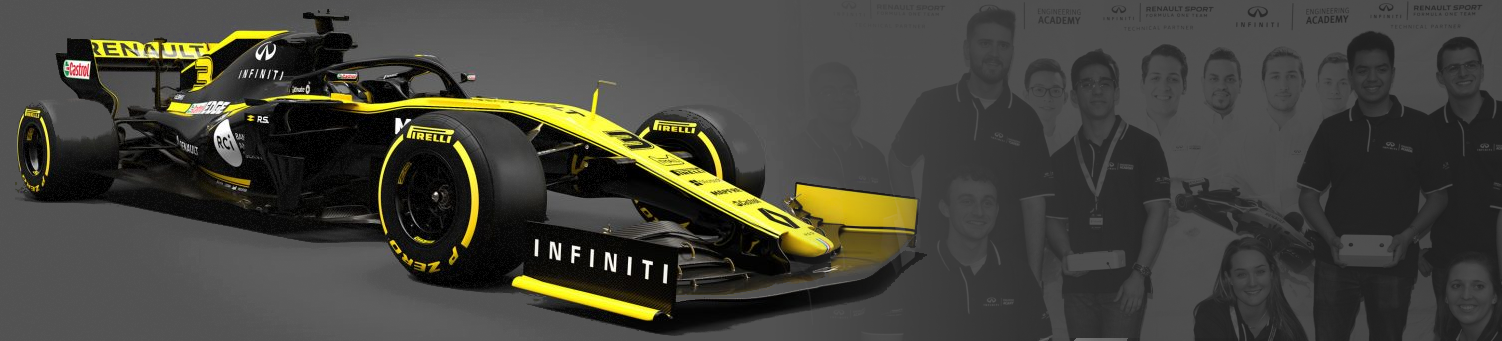
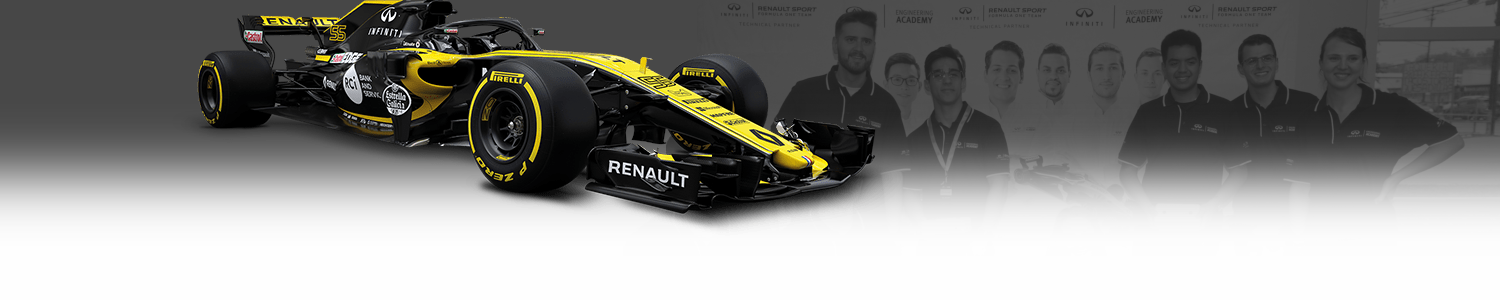
Update-005

diff --git a/_layouts/infiniti.html b/_layouts/infiniti.html
@@ -1,101 +1,178 @@
----
-layout: default
----
-
-<html>
+<!DOCTYPE html>
+<html lang="{{ page.lang | default: site.lang | default: 'en-US' }}" class="no-js">
+    {% include head.html %}
+    <div class="canvas">
+        <div class="wrapper">
+          {% include masthead.html %}
+          <div class="initial-content">
+            {{ content }}
+          </div>
+  
+          <div class="search-content">
+            {% include search-form.html %}
+          </div>
+        </div>
+    </div>
+  
+    {% include scripts.html %}
+<!---->
 <title>Infiniti Engineering Academy</title>
-<head><script src="https://kit.fontawesome.com/4600248190.js" crossorigin="anonymous"></script><link rel="shortcut icon" href="/_includes/favicon.svg" /></head>
+<head><link rel="shortcut icon" href="/_includes/favicon.svg" /></head>
 
-
-<div class="banner">
-    <img src="/assets/images/infinitiBanner1.png" style="width: 100vw;">
+<div class="bannerTop" id="banner">
+    <img src="/assets/images/infinitiBanner2.png" style="width: 100vw;">
 </div>
 
 <div class="videoContainer">
-    <video autoplay muted replay controls>
-        <source src="/assets/videos/infEA2018US.mp4" type="video/mp4">
-    </video>
+        <video autoplay muted replay controls  style="width: 60vw;">
+            <source src="/assets/videos/infEA2018US.mp4" type="video/mp4">
+        </video>
+    </div>
+</div>
+
+<div class="bannerBottom">
+    <img src="/assets/images/infinitiBanner1.png" style="width: 100vw;">
 </div>
 
 <style>
-    .banner {
+    html {
+        scroll-behavior: smooth;
+    }
+
+    .bannerTop {
         position: absolute;
-        z-index: 1;
+        z-index: 103;
         left:0px;
-        top:120px;
+        top:10vh;
+    }
+
+    .bannerBottom {
+        position: absolute;
+        z-index: 101;
+        left:0px;
+        top:10vh;
     }
 
     .videoContainer {
         position: fixed;
+        z-index: 102;
         left: 0px;
-        top: 475px;
-        width: 1000px;
+        top: 30vh;
+        width:100%;
     }
 
     .textContainer {
-        position: relative;
-        z-index: 2;
-        left:10px;
-        top: 500px;
-        height: 100%;
+        position: absolute;
+        text-align: center;
+        z-index: 100;
+        right:40px;
+        top: 40vh;
+        width: 35vw;
+        
     }
 </style>
+<!---->
 
-<div class="textContainer">
-    test test test test test test test test test test test test test test test test test test test test test test test test <br>
-    test test test test test test test test test test test test test test test test test test test test test test test test <br>
-    test test test test test test test test test test test test test test test test test test test test test test test test <br>
-    test test test test test test test test test test test test test test test test test test test test test test test test <br>
-    test test test test test test test test test test test test test test test test test test test test test test test test <br>
-    test test test test test test test test test test test test test test test test test test test test test test test test <br>
-    test test test test test test test test test test test test test test test test test test test test test test test test <br>
-    test test test test test test test test test test test test test test test test test test test test test test test test <br>
-    test test test test test test test test test test test test test test test test test test test test test test test test <br>
-    test test test test test test test test test test test test test test test test test test test test test test test test <br>
-    test test test test test test test test test test test test test test test test test test test test test test test test <br>
-    test test test test test test test test test test test test test test test test test test test test test test test test <br>
-    test test test test test test test test test test test test test test test test test test test test test test test test <br>
-    test test test test test test test test test test test test test test test test test test test test test test test test <br>
-    test test test test test test test test test test test test test test test test test test test test test test test test <br>
-    test test test test test test test test test test test test test test test test test test test test test test test test <br>
-    test test test test test test test test test test test test test test test test test test test test test test test test <br>
-    test test test test test test test test test test test test test test test test test test test test test test test test <br>
-    test test test test test test test test test test test test test test test test test test test test test test test test <br>
-    test test test test test test test test test test test test test test test test test test test test test test test test <br>
-    test test test test test test test test test test test test test test test test test test test test test test test test <br>
-    test test test test test test test test test test test test test test test test test test test test test test test test <br>
-    test test test test test test test test test test test test test test test test test test test test test test test test <br>
-    test test test test test test test test test test test test test test test test test test test test test test test test <br>
-    test test test test test test test test test test test test test test test test test test test test test test test test <br>
-    test test test test test test test test test test test test test test test test test test test test test test test test <br>
-    test test test test test test test test test test test test test test test test test test test test test test test test <br>
-    test test test test test test test test test test test test test test test test test test test test test test test test <br>
-    test test test test test test test test test test test test test test test test test test test test test test test test <br>
-    test test test test test test test test test test test test test test test test test test test test test test test test <br>
-    test test test test test test test test test test test test test test test test test test test test test test test test <br>
-    test test test test test test test test test test test test test test test test test test test test test test test test <br>
-    test test test test test test test test test test test test test test test test test test test test test test test test <br>
-    test test test test test test test test test test test test test test test test test test test test test test test test <br>
-    test test test test test test test test test test test test test test test test test test test test test test test test <br>
-    test test test test test test test test test test test test test test test test test test test test test test test test <br>
-    test test test test test test test test test test test test test test test test test test test test test test test test <br>
-    test test test test test test test test test test test test test test test test test test test test test test test test <br>
-    test test test test test test test test test test test test test test test test test test test test test test test test <br>
-    test test test test test test test test test test test test test test test test test test test test test test test test <br>
-    test test test test test test test test test test test test test test test test test test test test test test test test <br>
-    test test test test test test test test test test test test test test test test test test test test test test test test <br>
-    test test test test test test test test test test test test test test test test test test test test test test test test <br>
-    test test test test test test test test test test test test test test test test test test test test test test test test <br>
-    test test test test test test test test test test test test test test test test test test test test test test test test <br>
-    test test test test test test test test test test test test test test test test test test test test test test test test <br>
-    test test test test test test test test test test test test test test test test test test test test test test test test <br>
-    test test test test test test test test test test test test test test test test test test test test test test test test <br>
-    test test test test test test test test test test test test test test test test test test test test test test test test <br>
-    test test test test test test test test test test test test test test test test test test test test test test test test <br>
-    test test test test test test test test test test test test test test test test test test test test test test test test <br>
-    test test test test test test test test test test test test test test test test test test test test test test test test <br>
-    test test test test test test test test test test test test test test test test test test test test test test test test <br>
-    test test test test test test test test test test test test test test test test test test test test test test test test <br>
-    test test test test test test test test test test test test test test test test test test test test test test test test <br>
+  <body class="layout--{{ page.layout | default: layout.layout }}{% if page.classes or layout.classes %}{{ page.classes | default: layout.classes | join: ' ' | prepend: ' ' }}{% endif %} {{ page.title | slugify }}">
+
+    {% include skip-links.html %}
+
+    <div class="sidebar-toggle-wrapper">
+      {% if site.search %}
+        <button class="search-toggle" type="button">
+          <svg class="icon" width="16" height="16" xmlns="http://www.w3.org/2000/svg" viewBox="0 0 15.99 16">
+            <title>{{ site.data.theme.t.search | default: 'Search' }}</title>
+            <path d="M15.5,13.12L13.19,10.8a1.69,1.69,0,0,0-1.28-.55l-0.06-.06A6.5,6.5,0,0,0,5.77,0,6.5,6.5,0,0,0,2.46,11.59a6.47,6.47,0,0,0,7.74.26l0.05,0.05a1.65,1.65,0,0,0,.5,1.24l2.38,2.38A1.68,1.68,0,0,0,15.5,13.12ZM6.4,2A4.41,4.41,0,1,1,2,6.4,4.43,4.43,0,0,1,6.4,2Z" transform="translate(-.01)"></path>
+          </svg>
+        </button>
+      {% endif %}
+
+      <button class="toggle navicon-button larr" type="button">
+        <span class="toggle-inner">
+          <span class="sidebar-toggle-label visually-hidden">{{ site.data.theme.t.menu | default: 'Menu' }}</span>
+          <span class="navicon"></span>
+        </span>
+      </button>
+    </div>
+
+    <div id="sidebar" class="sidebar">
+      <div class="inner">
+        {% include navigation.html %}
+        {% include contact-list.html %}
+      </div>
+    </div>
+
+    
+
+<div class="textContainer" element.scrollTo(0, 100000);>
+    <img src="/assets/images/ieaLogo.png" style="width: 100%;">
+
+<h3>Summary</h3>
+
+Sam was a very personal young man, with a clear
+passion for mechanical engineering. I was impressed
+with his people skills and he scored well in the team
+events. I wish Sam good luck with his future career.<br><br>
+
+Andy Todd, Director, Body & Exterior Engineering,
+Nissan Technical Centre Europe.<br><br>
+
+Sam was a great sport with a fun attitude and isn’t
+afraid to speak up. He is able to think through issues and
+to focus on the task. I know that Sam will do well in the
+engineering world.<br><br>
+
+Greg Ramsey, Senior Manager, SV/NSA, INFINITI<br><br>
+
+<h3>Interview</h3>
+
+Sam was good at building rapport with the judges.
+Some of his answers were not as strong as the other
+finalists. I would suggest Sam reflects on how he could
+have given more concise answers that still conveyed his
+technical knowledge and unique selling proposition.<br><br>
+
+Andy Todd, Director, Body & Exterior Engineering,
+Nissan Technical Centre Europe.<br><br>
+
+Sam seemed confident and at ease with the judges but at times came across as too laid back. When
+asked about what he was looking for in F1 and road cars, he appeared indecisive as if he hadn’t
+given it much thought. I recommend that in the future, Sam be prepared to provide a clear picture
+of where he wants to go and what he wants to do.<br><br>
+
+Greg Ramsey, Senior Manager, SV/NSA, INFINITI<br><br>
+
+<h3>Harvard Challenge</h3>
+
+Sam did well in the Harvard challenge with a team that had some very vocal people with opposing
+views. Sam did a great job of keeping the team moving forward, clarifying points to make sure all
+were on the same page, and helped organize the team. Sam should consider taking on more of a
+leadership role in the future. He and the others on the team just assumed that Stan would present.
+Another lesson to be learned by everyone on the team: ask questions to make sure you have the
+data you need for the best decisions.<br><br>
+
+Greg Ramsey, Senior Manager, SV/NSA, INFINITI <br><br>
+
+<h3>Dragster Challenge</h3><br>
+
+Sam had a strong contribution to make in the Dragster Challenge, despite the strength of Stan. The
+one aspect of his performance that really stood out was his strength of persuading and influencing
+his team mates. He made a strong impression, gained commitment from others, promoted his ideas
+well and negotiated well when conflict occurred. One area for Sam to consider was planning and
+organising – I only observed his group in the second half of the event, but I wondered if he had
+contributed ideas on how the team should organise the test runs during the free practise session.<br><br>
+
+Andy Todd, Director, Body & Exterior Engineering, Nissan Technical Centre Europe.<br><br>
+
+I observed the second half of the challenge so didn’t get to see how the team started up. Sam made
+a good impression as I observed him being a key part of the team. Ultimately, the team did not
+perform well in the races. Although there was discussion on information and recommendations,
+there seemed to be 3 separate groups doing their own thing. I encourage Sam to look for
+opportunities to influence and bring everyone together as a more cohesive team since he has the
+communication skills and approachability for it.<br><br>
+
+Greg Ramsey, Senior Manager, SV/NSA, INFINITI<br><br>
+<div id="bottom"></div>
 </div>
+</body>
 </html>
